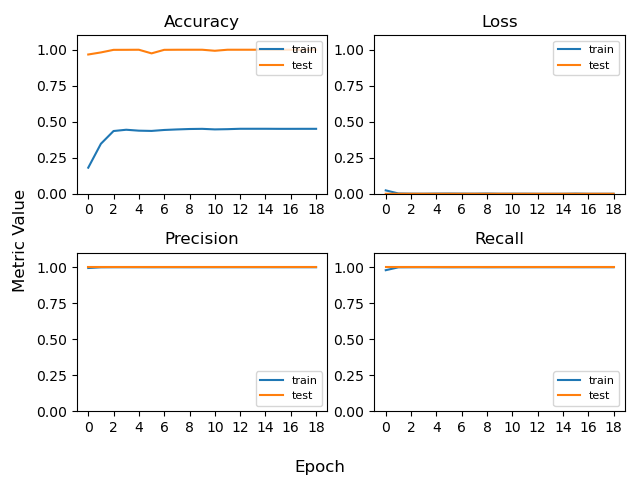
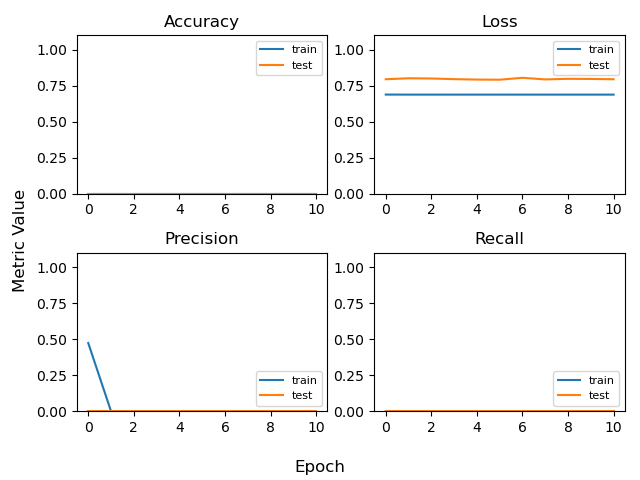
added ablation

diff --git a/ShapeDNN/cluster2shape_makeTrain.py b/ShapeDNN/cluster2shape_makeTrain.py
@@ -100,7 +100,7 @@ def SeqToMat(path, All_Shapes):
     return np_E_train_data
 
 
-def main(seq_file, species, All_Shapes, E_data_path, D_data_path, out_data_path):
+def main(seq_file, species, All_Shapes, E_data_path, D_data_path, out_data_path, ablation):
 
     print(">>>>>>>>>>>>.. Processing " + D_data_path)
     np_D_data = SeqToMat(D_data_path, All_Shapes)
@@ -129,15 +129,15 @@ def main(seq_file, species, All_Shapes, E_data_path, D_data_path, out_data_path)
 
     end_line = section * section_length-1;
     if (end_line > total_lines):
-        end_line = total_lines-1;
+    	end_line = total_lines-1;
 
     data_label="Train_data"
     labels_label="Train_labels"
-    mat_out=out_data_path+species+'All_Shapes_Train_5seqsPerClustr_'
+    mat_out=out_data_path+species+ablation+'_Shapes_Train_5seqsPerClustr_'
     if 'test_processed_' in E_data_path:
         data_label="Test_data"
         labels_label="Test_labels"
-        mat_out=out_data_path+species+'All_Shapes_Test_5seqsPerClustr_'
+        mat_out=out_data_path+species+ablation+'_Shapes_Test_5seqsPerClustr_'
 
     DataToSave = {data_label: Train_Test_data[start_line:end_line,:,:], 
                 labels_label: Train_Test_labels[start_line:end_line]}
@@ -146,7 +146,7 @@ def main(seq_file, species, All_Shapes, E_data_path, D_data_path, out_data_path)
 
 ######################## ######################## Main ######################## ########################
 seq_file='/project/rohs_108/yibeijia/data/yibei_predictions2/'
-seq_file='/Users/yibeijia/Downloads/data/yibei_predictions2/'
+#seq_file='/Users/yibeijia/Downloads/data/yibei_predictions2/'
 #seq_file='/home/yibei/Downloads/yibei_predictions/'
 species='yeast'
 
@@ -154,21 +154,31 @@ All_Shapes=['Buckle-FL', 'Buckle', 'EP', 'HelT-FL', 'HelT', 'MGW-FL', 'MGW',
               'Opening-FL', 'Opening', 'ProT-FL', 'ProT', 'Rise-FL', 'Rise', 'Roll-FL',
               'Roll', 'Shear-FL', 'Shear', 'Shift-FL', 'Shift', 'Slide-FL', 'Slide',
               'Stagger-FL', 'Stagger', 'Stretch-FL', 'Stretch', 'Tilt-FL', 'Tilt']
-# All_Shapes=['Buckle-FL', 'Stretch','Tilt-FL']
-# All_Shapes=['Buckle-FL', 'Buckle', 'EP']
-print(All_Shapes)
 
-# out_data_path='/project/rohs_108/yibeijia/nucleosome_occupancy/data/train_test_data/'
-out_data_path='/Users/yibeijia/Downloads/nucleosome_occupancy/data/train_test_data'
+All_Shapes_FL=['Buckle-FL','HelT-FL','MGW-FL','Opening-FL','ProT-FL', 'Rise-FL','Roll-FL',
+			'Shear-FL','Shift-FL','Slide-FL','Stagger-FL','Stretch-FL',  'Tilt-FL']
+
+All_Shapes_noFL=['Buckle', 'EP','HelT','MGW','Opening', 'ProT','Rise','Roll','Shear', 'Shift',
+			'Slide','Stagger','Stretch', 'Tilt']
+
+print(All_Shapes)
+print(len(All_Shapes_FL))
+print(len(All_Shapes_noFL))
+
+out_data_path='/project/rohs_108/yibeijia/nucleosome_occupancy/data/train_test_data/'
+#out_data_path='/Users/yibeijia/Downloads/nucleosome_occupancy/data/train_test_data/'
 #out_data_path='/home/yibei/Projects/data/train_test_data/'
 
-E_train_path= seq_file+species+'_train_processed_'+'enriched_'
-D_train_path= seq_file+species+'_train_processed_'+'depleted_'
+E_train_path= seq_file+'train_processed_'+'enriched_'
+D_train_path= seq_file+'train_processed_'+'depleted_'
+#main(seq_file, species, All_Shapes, E_train_path, D_train_path, out_data_path,'All')
+main(seq_file, species, All_Shapes, E_train_path, D_train_path, out_data_path,'FL')
+main(seq_file, species, All_Shapes, E_train_path, D_train_path, out_data_path,'noFL')
 
-main(seq_file, species, All_Shapes, E_train_path, D_train_path, out_data_path)
+#E_test_path= seq_file+species+'_test_processed_'+'enriched_'
+#D_test_path= seq_file+species+'_test_processed_'+'depleted_'
 
-# E_test_path= seq_file+species+'_test_processed_'+'enriched_'
-# D_test_path= seq_file+species+'_test_processed_'+'depleted_'
-
-# main(seq_file, species, All_Shapes, E_test_path, D_test_path, out_data_path)
+#main(seq_file, species, All_Shapes_FL, E_test_path, D_test_path, out_data_path,'All')
+#main(seq_file, species, All_Shapes_FL, E_test_path, D_test_path, out_data_path,'FL')
+#main(seq_file, species, All_Shapes_noFL, E_test_path, D_test_path, out_data_path,'noFL')
 

diff --git a/ShapeDNN/trainShapeDNN.py b/ShapeDNN/trainShapeDNN.py
@@ -99,7 +99,7 @@ print(f"X_train.shape {X_train.shape}")
 print(f"y_train.shape {y_train.shape}")
 
 # ### Run TBiNet
-sequence_input = Input(shape=(146,54))
+sequence_input = Input(shape=(146,42))
 sequence_input0 = tf.transpose(sequence_input, perm=[0, 2, 1])
 
 # Convolutional Layer - shape
@@ -112,7 +112,7 @@ attention0 = Dense(1)(output0)
 attention0 = Permute((2, 1))(attention0)
 attention0 = Activation('softmax')(attention0)
 attention0 = Permute((2, 1))(attention0)
-attention0 = Lambda(lambda x: K.mean(x, axis=2), name='shape_attention',output_shape=(54,))(attention0)
+attention0 = Lambda(lambda x: K.mean(x, axis=2), name='shape_attention',output_shape=(42,))(attention0)
 attention0 = RepeatVector(146)(attention0)
 attention0 = Permute((2,1))(attention0)
 output = multiply([sequence_input0, attention0])
@@ -139,7 +139,7 @@ output = Dropout(0.5)(output)
 flat_output = Flatten()(output)
 
 #FC Layer
-FC_output = Dense(10)(flat_output)
+FC_output = Dense(50)(flat_output)
 FC_output = Activation('relu')(FC_output)
 
 #Output Layer
@@ -149,18 +149,18 @@ output = Activation('sigmoid')(output)
 model = Model(inputs=sequence_input, outputs=output)
 
 print('compiling model')
-model.compile(loss='binary_crossentropy', optimizer='adam', metrics=[tf.keras.metrics.Precision(),
+model.compile(loss='binary_crossentropy',optimizer='adam',metrics=[tf.keras.metrics.Precision(),
 																	tf.keras.metrics.Recall(),
-																	tf.keras.metrics.Accuracy()])
+																	tf.keras.metrics.BinaryAccuracy()])
 
 print('model summary')
 model.summary()
 
 checkpointer = ModelCheckpoint(filepath=model_folder+"tbinet.{epoch:02d}-{val_loss:.2f}.hdf5", verbose=1, save_best_only=False)
 #earlystopper = EarlyStopping(monitor='val_loss', patience=10, verbose=1)
-earlystopper = EarlyStopping(monitor='val_accuracy',patience=10, verbose=1)
-reduce_lr = ReduceLROnPlateau(monitor='val_loss', factor=0.2,
-                              patience=5, min_lr=0.001)
+earlystopper = EarlyStopping(monitor='val_binary_accuracy',patience=10, verbose=1)
+#reduce_lr = ReduceLROnPlateau(monitor='val_loss', factor=0.2,
+#                              patience=5, min_lr=0.001)
 
 b=validmat['Test_labels'].T
 print(validmat['Test_data'].shape)
@@ -181,7 +181,9 @@ print('No Nan in validation')
 # model.fit(X_train, y_train, batch_size=100, epochs=60, shuffle=True, verbose=1, validation_data=(np.transpose(validmat['Train_data'],axes=(0,2,1)),validmat['Train_vals'][:,125:815]), callbacks=[checkpointer,earlystopper])
 
 # added reduce learning rate callback to slow down learning rate
-history = model.fit(X_train, y_train, batch_size=100, epochs=60, shuffle=True, verbose=1, validation_data=(X_val,y_val), callbacks=[checkpointer,earlystopper, reduce_lr])
+#history = model.fit(X_train, y_train, batch_size=100, epochs=60, shuffle=True, verbose=1, validation_data=(X_val,y_val), callbacks=[checkpointer,earlystopper, reduce_lr])
+history = model.fit(X_train, y_train, batch_size=100, epochs=60, shuffle=True, verbose=1, validation_data=(X_val,y_val),
+ callbacks=[checkpointer,earlystopper])
 
 model.save(model_folder+'tbinet.h5')
 
@@ -195,9 +197,9 @@ try:
 	print("\n")
 	
 	print("accuracy")
-	print(history.history['accuracy'])
+	print(history.history['binary_accuracy'])
 	print("val_accuracy")
-	print(history.history['val_accuracy'])
+	print(history.history['val_binary_accuracy'])
 	print("\n")
 	
 	print("precision")
@@ -212,8 +214,8 @@ try:
 	print(history.history['val_recall'])
 	print("\n")
 	fig, axs = plt.subplots(2, 2)
-	axs[0, 0].plot(history.history['accuracy'], label='train')
-	axs[0, 0].plot(history.history['val_accuracy'], label='test')
+	axs[0, 0].plot(history.history['binary_accuracy'], label='train')
+	axs[0, 0].plot(history.history['val_binary_accuracy'], label='test')
 	axs[0, 0].set_title('Accuracy')
 	axs[0, 0].legend(['train', 'test'], loc='upper right',prop={'size': 8})
 	axs[0, 0].set_ylim([0, 1.1])

diff --git a/ShapeDNN/cluster2shape_makeTest.py b/ShapeDNN/cluster2shape_makeTest.py
@@ -100,7 +100,7 @@ def SeqToMat(path, All_Shapes):
     return np_E_train_data
 
 
-def main(seq_file, species, All_Shapes, E_data_path, D_data_path, out_data_path):
+def main(seq_file, species, All_Shapes, E_data_path, D_data_path, out_data_path, ablation):
 
     print(">>>>>>>>>>>>.. Processing " + D_data_path)
     np_D_data = SeqToMat(D_data_path, All_Shapes)
@@ -133,11 +133,11 @@ def main(seq_file, species, All_Shapes, E_data_path, D_data_path, out_data_path)
 
     data_label="Train_data"
     labels_label="Train_labels"
-    mat_out=out_data_path+species+'All_Shapes_Train_5seqsPerClustr_'
+    mat_out=out_data_path+species+ablation+'_Shapes_Train_5seqsPerClustr_'
     if 'test_processed_' in E_data_path:
         data_label="Test_data"
         labels_label="Test_labels"
-        mat_out=out_data_path+species+'All_Shapes_Test_5seqsPerClustr_'
+        mat_out=out_data_path+species+ablation+'_Shapes_Test_5seqsPerClustr_'
 
     DataToSave = {data_label: Train_Test_data[start_line:end_line,:,:], 
                 labels_label: Train_Test_labels[start_line:end_line]}
@@ -146,7 +146,7 @@ def main(seq_file, species, All_Shapes, E_data_path, D_data_path, out_data_path)
 
 ######################## ######################## Main ######################## ########################
 seq_file='/project/rohs_108/yibeijia/data/yibei_predictions2/'
-seq_file='/Users/yibeijia/Downloads/data/yibei_predictions2/'
+#seq_file='/Users/yibeijia/Downloads/data/yibei_predictions2/'
 #seq_file='/home/yibei/Downloads/yibei_predictions/'
 species='yeast'
 
@@ -154,21 +154,31 @@ All_Shapes=['Buckle-FL', 'Buckle', 'EP', 'HelT-FL', 'HelT', 'MGW-FL', 'MGW',
               'Opening-FL', 'Opening', 'ProT-FL', 'ProT', 'Rise-FL', 'Rise', 'Roll-FL',
               'Roll', 'Shear-FL', 'Shear', 'Shift-FL', 'Shift', 'Slide-FL', 'Slide',
               'Stagger-FL', 'Stagger', 'Stretch-FL', 'Stretch', 'Tilt-FL', 'Tilt']
-# All_Shapes=['Buckle-FL', 'Stretch','Tilt-FL']
-# All_Shapes=['Buckle-FL', 'Buckle', 'EP']
-print(All_Shapes)
 
-# out_data_path='/project/rohs_108/yibeijia/nucleosome_occupancy/data/train_test_data/'
-out_data_path='/Users/yibeijia/Downloads/nucleosome_occupancy/data/train_test_data'
+All_Shapes_FL=['Buckle-FL','HelT-FL','MGW-FL','Opening-FL','ProT-FL', 'Rise-FL','Roll-FL',
+			'Shear-FL','Shift-FL','Slide-FL','Stagger-FL','Stretch-FL',  'Tilt-FL']
+
+All_Shapes_noFL=['Buckle', 'EP','HelT','MGW','Opening', 'ProT','Rise','Roll','Shear', 'Shift',
+			'Slide','Stagger','Stretch', 'Tilt']
+
+print(All_Shapes)
+print(len(All_Shapes_FL))
+print(len(All_Shapes_noFL))
+
+out_data_path='/project/rohs_108/yibeijia/nucleosome_occupancy/data/train_test_data/'
+#out_data_path='/Users/yibeijia/Downloads/nucleosome_occupancy/data/train_test_data/'
 #out_data_path='/home/yibei/Projects/data/train_test_data/'
 
-#E_train_path= seq_file+'train_processed_'+'enriched_'
-#D_train_path= seq_file+'train_processed_'+'depleted_'
-
-#main(seq_file, species, All_Shapes, E_train_path, D_train_path, out_data_path)
+E_train_path= seq_file+'train_processed_'+'enriched_'
+D_train_path= seq_file+'train_processed_'+'depleted_'
+#main(seq_file, species, All_Shapes, E_train_path, D_train_path, out_data_path,'All')
+#main(seq_file, species, All_Shapes, E_train_path, D_train_path, out_data_path,'FL')
+#main(seq_file, species, All_Shapes, E_train_path, D_train_path, out_data_path,'noFL')
 
 E_test_path= seq_file+species+'_test_processed_'+'enriched_'
 D_test_path= seq_file+species+'_test_processed_'+'depleted_'
 
-main(seq_file, species, All_Shapes, E_test_path, D_test_path, out_data_path)
+#main(seq_file, species, All_Shapes_FL, E_test_path, D_test_path, out_data_path,'All')
+main(seq_file, species, All_Shapes_FL, E_test_path, D_test_path, out_data_path,'FL')
+main(seq_file, species, All_Shapes_noFL, E_test_path, D_test_path, out_data_path,'noFL')
 

diff --git a/ShapeDNN/PreprocessShape.py b/ShapeDNN/PreprocessShape.py
@@ -304,7 +304,7 @@ def getClusterIndex(cluster_file, seq_file, species):
 
 #All_Shapes=['Stagger-FL', 'Stagger','Stretch',  'Stretch-FL', 'Tilt-FL', 'Tilt']
 seq_file='/project/rohs_108/yibeijia/data/yibei_predictions2/'
-seq_file='/Users/yibeijia/Downloads/data/yibei_predictions2/'
+#seq_file='/Users/yibeijia/Downloads/data/yibei_predictions2/'
 #seq_file='/home/yibei/Downloads/yibei_predictions/'
 import sys
 species=sys.argv[1]
@@ -321,7 +321,7 @@ All_Shapes=[sys.argv[2]]
 
 #path='/project/rohs_108/yibeijia/nucleosome_occupancy/tbinet_stuff/cluster_seq/'
 path='/project/rohs_102/share/nucleosome_occupancy_data/'
-path='/Users/yibeijia/Downloads/nucleosome_occupancy/data/'
+#path='/Users/yibeijia/Downloads/nucleosome_occupancy/data/'
 #path='/home/yibei/Projects/data/'
 
 if species =='human': 
@@ -358,13 +358,16 @@ if 'enriched' in sys.argv[3]:
 	print('enriched!!!!!!!!!!!')
 	testname = "/Users/yibeijia/Downloads/nucleosome_occupancy/ShapeDNN/E_test_clsts_file.npy"
 	trainname = "/Users/yibeijia/Downloads/nucleosome_occupancy/ShapeDNN/E_train_clsts_file.npy"
-
+	testname = "/project/rohs_108/yibeijia/nucleosome_occupancy/ShapeDNN/E_test_clsts_file.npy"
+	trainname = "/project/rohs_108/yibeijia/nucleosome_occupancy/ShapeDNN/E_train_clsts_file.npy"
 else:
 	print('depleted!!!!!!!!!!!')
 	testname = "/Users/yibeijia/Downloads/nucleosome_occupancy/ShapeDNN/D_test_clsts_file.npy"
 	trainname = "/Users/yibeijia/Downloads/nucleosome_occupancy/ShapeDNN/D_train_clsts_file.npy"
-print(os.path.getsize(testname))
+	testname = "/project/rohs_108/yibeijia/nucleosome_occupancy/ShapeDNN/D_test_clsts_file.npy"
+	trainname = "/project/rohs_108/yibeijia/nucleosome_occupancy/ShapeDNN/D_train_clsts_file.npy"
 if exists(testname) == False:
+
 	print(" +++++ test/train file doenst exist, writing it to .npy file +++++")	
 	if enrich:
 		test_clsts, train_clsts = getClusterIndex(Ecluster, seq_file, species)

diff --git a/ShapeDNN/testShapeDNN.py b/ShapeDNN/testShapeDNN.py
@@ -132,11 +132,11 @@ with open(inputmodel+'y_test_run1.npy', 'wb') as f:
 	np.save(f, y_test)
 
 for i in range(len(tpreds)):
-    if tpreds[i] <= 0.1:
+    if tpreds[i] <= 0.5:
 #        print(f"original {tpreds[i]}")
         tpreds[i] = 0
 #        print(f"changed to {tpreds[i]}")
-    if tpreds[i] >= 0.9:
+    if tpreds[i] >= 0.6:
 #        print(f"original {tpreds[i]}")
         tpreds[i] = 1
 #        print(f"changed to {tpreds[i]}")
